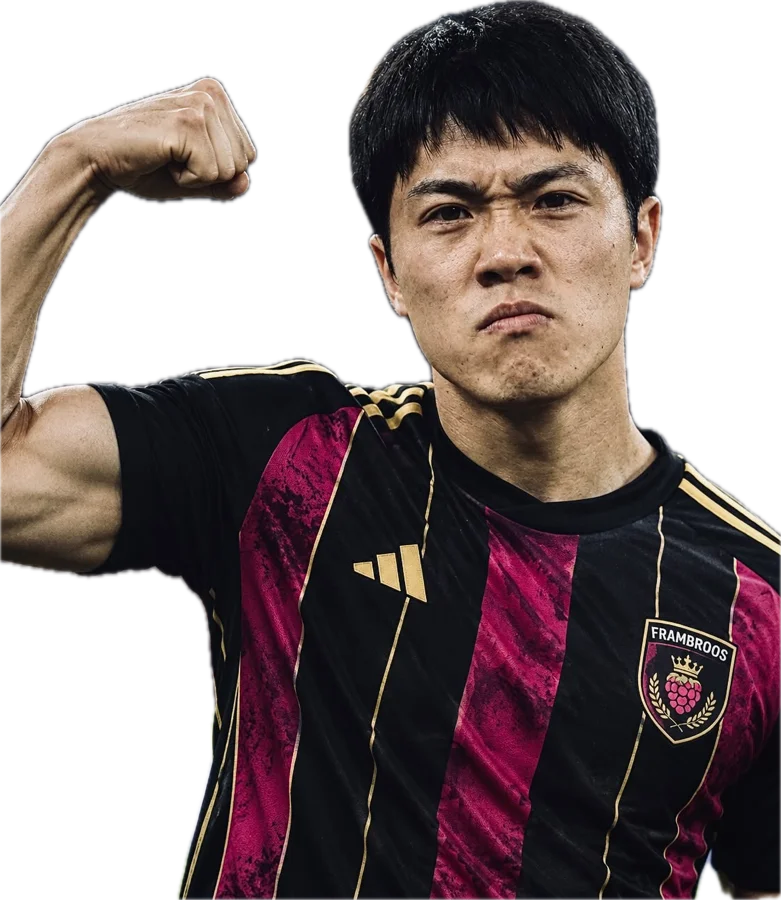
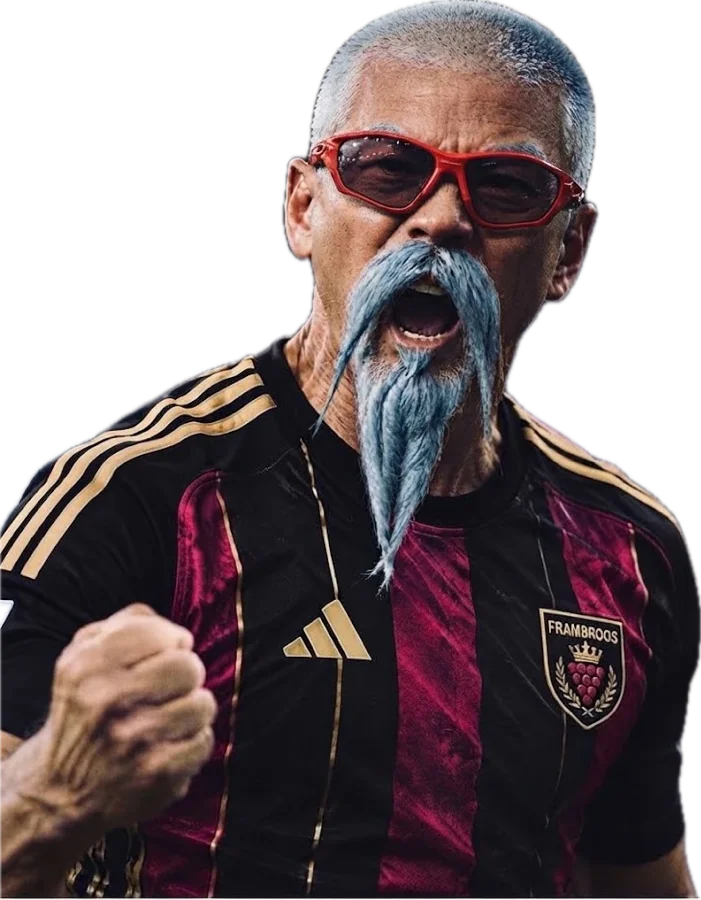
Foto's: Wheatley en Yaki omgewisseld, foto loopt onder de cijfers door zodat een arm past; Clubhouse met In het kort (drie regels) en één lijn; spelerspagina Algemeen: kaart, alinea, drie cijfers, wedstrijden, rest achter Meer cijfers

diff --git a/public/clubhouse.js b/public/clubhouse.js
@@ -68,15 +68,15 @@ function totals() {
   $('#totals').innerHTML = items.map(([l, v]) => `<div><dt>${l}</dt><dd>${v ?? '–'}</dd></div>`).join('');
 }
 
-// Vormgrafiek (coach-logica §9a): per wedstrijd een staafje (doelsaldo, kleur = uitslag), met daardoorheen het doelsaldo
-// en het verwachte doelsaldo tegen deze tegenstanders, beide gemiddeld over vijf. Een tik of muis toont de wedstrijd.
+// Vormgrafiek (coach-logica §9a): per wedstrijd een staafje (doelsaldo, kleur = uitslag), met daardoorheen één lijn:
+// het doelsaldo gemiddeld over vijf. Een tik of muis toont de wedstrijd.
 function formChart(container, ms) {
   if (!ms.length) { container.innerHTML = '<p class="empty">Nog geen wedstrijden.</p>'; return; }
   const width = Math.max(320, Math.min(1400, container.clientWidth || 800)), height = 230;
   const { svg, inner } = frame(container, width, height, { l: 34, t: 10, r: 8, b: 26 });
   const n = ms.length, own = DATA.snapshot?.skillRating;
-  const gd = rolling(ms.map(m => m.goalDiff), 5), ex = rolling(ms.map(m => m.expected ?? 0), 5);
-  const all = [...ms.map(m => m.goalDiff), ...gd, ...ex, 0];
+  const gd = rolling(ms.map(m => m.goalDiff), 5);
+  const all = [...ms.map(m => m.goalDiff), ...gd, 0];
   const yt = niceTicks(Math.min(...all), Math.max(...all), 4), y0 = Math.min(...all, yt[0]), y1 = Math.max(...all, yt.at(-1));
   const step = inner.w / n, sx = i => inner.x + (i + 0.5) * step, sy = v => inner.y + inner.h - (v - y0) / (y1 - y0) * inner.h;
   yAxis(svg, inner, sy, yt, v => v > 0 ? `+${v}` : v);
@@ -90,7 +90,6 @@ function formChart(container, ms) {
     const top = Math.min(sy(0), sy(m.goalDiff)), h = Math.max(2, Math.abs(sy(m.goalDiff) - sy(0)));
     return el('rect', { x: sx(i) - bw / 2, y: m.goalDiff === 0 ? sy(0) - 1 : top, width: bw, height: h, rx: Math.min(3, bw / 3), fill: fill[m.result], 'fill-opacity': 0.5 }, svg);
   });
-  el('path', { d: smoothPath(ex.map((v, i) => [sx(i), sy(v)])), fill: 'none', stroke: 'var(--ink-2)', 'stroke-width': 2, 'stroke-dasharray': '5 4', 'stroke-linecap': 'round' }, svg);
   el('path', { d: smoothPath(gd.map((v, i) => [sx(i), sy(v)])), fill: 'none', stroke: 'var(--brand)', 'stroke-width': 2.5, 'stroke-linecap': 'round', 'stroke-linejoin': 'round' }, svg);
   const hit = el('rect', { class: 'hit', x: inner.x, y: inner.y, width: inner.w, height: inner.h }, svg);
   let on = null, pointer = 'mouse';
@@ -101,7 +100,7 @@ function formChart(container, ms) {
     if (on !== null) bars[on].setAttribute('fill-opacity', 0.5);
     bars[i].setAttribute('fill-opacity', 1); on = i;
     const opp = m.opponent.skillRating ? `rating ${m.opponent.skillRating}${own ? ` (${signed(m.opponent.skillRating - own, 0)} tegenover ons)` : ''}` : 'rating onbekend';
-    showTip(`<b>${letter(m.result)} ${m.goals}–${m.goalsAgainst} tegen ${esc(m.opponent.name)}</b>${dayLabel(m.ts)} · ${opp}<br>Verwacht doelsaldo ${signed(m.expected, 1)}${m.winnerByDnf ? ' · opgave' : ''}<br>Gemiddeld over 5: doelsaldo ${signed(gd[i], 1)}, verwacht ${signed(ex[i], 1)}`, e);
+    showTip(`<b>${letter(m.result)} ${m.goals}–${m.goalsAgainst} tegen ${esc(m.opponent.name)}</b>${dayLabel(m.ts)} · ${opp}${m.winnerByDnf ? ' · opgave' : ''}<br>Doelsaldo gemiddeld over 5: ${signed(gd[i], 1)}`, e);
   });
   // Na een tik stuurt de browser soms meteen mouseleave; dan blijft de tooltip staan tot een tik ernaast (common.js).
   hit.addEventListener('mouseleave', () => { if (pointer !== 'mouse') return; if (on !== null) bars[on].setAttribute('fill-opacity', 0.5); on = null; hideTip(); });
@@ -112,17 +111,38 @@ function formChart(container, ms) {
 // Kerncijfers in de kop: de laatste tien tegenover de wedstrijden daarvoor.
 function seasonFigs(ms) {
   if (ms.length < 3) { $('#fig-season').innerHTML = ''; return; }
-  const last = ms.slice(-10), before = ms.slice(0, -10), own = DATA.snapshot?.skillRating, T = 'Laatste tien tegenover de gevolgde wedstrijden daarvoor';
+  const last = ms.slice(-10), before = ms.slice(0, -10), T = 'Laatste tien tegenover de gevolgde wedstrijden daarvoor';
   const a = summarize(last), b = before.length >= 5 ? summarize(before) : null;
-  const opp = list => { const r = list.map(m => m.opponent.skillRating).filter(Boolean); return r.length && own ? avg(r) - own : null; };
-  const oa = opp(last), ob = b ? opp(before) : null;
-  const neutral = d => d && { ...d, good: null }; // sterkere tegenstanders zijn niet beter of slechter, alleen anders
   $('#fig-season').innerHTML = figsHtml([
     { label: 'Punten per wedstrijd', value: a.ppg.toFixed(1), delta: b && deltaOf(a.ppg, b.ppg, { digits: 1, title: T }) },
     { label: 'Doelsaldo', color: 'var(--brand)', value: signed(a.gfAvg - a.gaAvg, 1), delta: b && deltaOf(a.gfAvg - a.gaAvg, b.gfAvg - b.gaAvg, { digits: 1, title: `${T} (per wedstrijd)` }) },
-    { label: 'Verwacht', color: 'var(--ink-2)', value: signed(avg(last.map(m => m.expected ?? 0)), 1) },
-    { label: 'Tegenstanders tov ons', value: oa === null ? '–' : signed(oa, 0), delta: ob !== null && oa !== null ? neutral(deltaOf(oa, ob, { digits: 0, min: 10, title: `${T}: gemiddelde rating van de tegenstanders tegenover de onze` })) : null },
   ]);
+}
+
+// In het kort (coach-logica §9a): drie regels in woorden, elk één vergelijking met een duidelijke basis.
+function kort(ms) {
+  const lines = [];
+  const won = list => `${list.filter(m => m.result === 'W').length} van de ${list.length}`;
+  const pctW = list => Math.round(100 * list.filter(m => m.result === 'W').length / list.length);
+  const tone = (good, txt) => `<span class="kort-tag ${good === true ? 'up' : good === false ? 'down' : ''}">${txt}</span>`;
+  // 1. Laatste avond tegenover normaal
+  const sess = sessionsOf(ms), last = sess.at(-1);
+  if (last && last.matches.length >= 2) {
+    const rest = ms.filter(m => m.session !== last.id), a = summarize(last.matches), b = rest.length >= 3 ? summarize(rest) : null;
+    const d = b ? a.ppg - b.ppg : null;
+    lines.push({ label: 'Laatste avond', main: `${won(last.matches)} gewonnen`, tag: d === null ? '' : tone(d >= 0.3 ? true : d <= -0.3 ? false : null, d >= 0.3 ? 'beter dan normaal' : d <= -0.3 ? 'slechter dan normaal' : 'zoals normaal') });
+  }
+  // 2. Deze week tegenover vorige week
+  const now = ms.at(-1)?.ts ?? 0, week = 7 * 86400;
+  const thisW = ms.filter(m => m.ts > now - week), prevW = ms.filter(m => m.ts <= now - week && m.ts > now - 2 * week);
+  if (thisW.length >= 3) lines.push({ label: 'Deze week', main: `${pctW(thisW)}% gewonnen`, tag: prevW.length >= 3 ? tone(pctW(thisW) - pctW(prevW) >= 10 ? true : pctW(prevW) - pctW(thisW) >= 10 ? false : null, `vorige week ${pctW(prevW)}%`) : '' });
+  // 3. Tegen sterkere clubs tegenover de rest
+  const own = DATA.snapshot?.skillRating;
+  if (own) {
+    const strong = ms.filter(m => m.opponent.skillRating >= own + 100), rest = ms.filter(m => m.opponent.skillRating && m.opponent.skillRating < own + 100);
+    if (strong.length >= 3 && rest.length >= 3) lines.push({ label: 'Tegen sterkere clubs', main: `${pctW(strong)}% gewonnen`, tag: tone(null, `tegen de rest ${pctW(rest)}%`) });
+  }
+  $('#kort').innerHTML = lines.map(l => `<div class="kort-row"><span class="kort-label">${l.label}</span><b>${l.main}</b>${l.tag}</div>`).join('');
 }
 
 // ---------- per speler: totalen uit de gevolgde wedstrijden ----------
@@ -187,6 +207,7 @@ function openRank(R, totals) {
 function render() {
   const ms = DATA.matches;
   homeHero(ms);
+  kort(ms);
   totals();
   seasonFigs(ms);
   formChart($('#chart-form'), ms);

diff --git a/public/spelers.html b/public/spelers.html
@@ -45,28 +45,7 @@
   <section class="card">
     <h2 class="card-title">Samenvatting</h2>
     <p class="summary" id="p-summary"></p>
-  </section>
-  <div class="pcards4" id="p-cards"></div>
-
-  <section class="card">
-    <div class="card-head">
-      <div>
-        <h2>Aan de bal in context</h2>
-        <p class="hint">Balverlies naast wat er tegenover staat, vergeleken met <span id="ctx-group">dezelfde build</span>. Hoe lastig ontvangen passes zijn, meet EA niet; momenten zonder aanspeelpunt zijn de benadering.</p>
-      </div>
-      <div class="card-figs" id="ctx-figs"></div>
-    </div>
-    <div class="ctx-verdict" id="ctx-verdict"></div>
-    <div class="tiles ctx-tiles" id="ctx-tiles"></div>
-  </section>
-
-  <section class="card">
-    <h2>Sterk en zwak</h2>
-    <p class="hint">Waar deze speler bovenaan of onderaan staat in het team.</p>
-    <div class="split">
-      <div><h3 class="good-text">Sterk in</h3><ul class="insight-list" id="list-strengths"></ul></div>
-      <div><h3 class="bad-text">Kan beter</h3><ul class="insight-list" id="list-weaknesses"></ul></div>
-    </div>
+    <div class="sess-figs p-three" id="p-three"></div>
   </section>
 
   <section class="card">
@@ -75,6 +54,31 @@
     <div id="tbl-player-matches"></div>
   </section>
 
+  <details class="card more-cijfers">
+    <summary>Meer cijfers</summary>
+    <div class="pcards4" id="p-cards"></div>
+
+    <section class="card">
+      <div class="card-head">
+        <div>
+          <h2>Aan de bal in context</h2>
+          <p class="hint">Balverlies naast wat er tegenover staat, vergeleken met <span id="ctx-group">dezelfde build</span>. Hoe lastig ontvangen passes zijn, meet EA niet; momenten zonder aanspeelpunt zijn de benadering.</p>
+        </div>
+        <div class="card-figs" id="ctx-figs"></div>
+      </div>
+      <div class="ctx-verdict" id="ctx-verdict"></div>
+      <div class="tiles ctx-tiles" id="ctx-tiles"></div>
+    </section>
+
+    <section class="card">
+      <h2>Sterk en zwak</h2>
+      <p class="hint">Waar deze speler bovenaan of onderaan staat in het team.</p>
+      <div class="split">
+        <div><h3 class="good-text">Sterk in</h3><ul class="insight-list" id="list-strengths"></ul></div>
+        <div><h3 class="bad-text">Kan beter</h3><ul class="insight-list" id="list-weaknesses"></ul></div>
+      </div>
+    </section>
+  </details>
     </div>
 
   <div id="tab-sessions" role="tabpanel" aria-labelledby="tab-btn-sessions" class="tabpanel" hidden>

diff --git a/public/style.css b/public/style.css
@@ -511,6 +511,22 @@ a.pchip:hover { border-color: var(--brand); }
 .season .card-head { margin-bottom: 12px; }
 .season-chart { margin-top: 16px; padding-top: 12px; border-top: 1px solid var(--grid); }
 .season-chart .hit { cursor: pointer; }
+.kort { display: grid; gap: 6px; margin: 4px 0 14px; }
+.kort-row { display: flex; align-items: baseline; gap: 10px; flex-wrap: wrap; font-size: 14.5px; }
+.kort-label { color: var(--ink-2); min-width: 150px; }
+.kort-row b { font-weight: 620; }
+.kort-tag { font-size: 12.5px; color: var(--ink-2); padding: 2px 8px; border-radius: 999px; background: color-mix(in srgb, var(--ink) 8%, transparent); }
+.kort-tag.up { color: var(--good-text); background: color-mix(in srgb, var(--pos) 16%, transparent); }
+.kort-tag.down { color: var(--neg-text); background: color-mix(in srgb, var(--neg) 16%, transparent); }
+@media (max-width: 600px) { .kort-row { gap: 4px 8px; } .kort-label { min-width: 100%; font-size: 12px; } }
+.p-three { grid-template-columns: repeat(3, minmax(0, 1fr)); margin-top: 0; padding-top: 0; border-top: 0; }
+.more-cijfers > summary { cursor: pointer; list-style: none; display: flex; align-items: center; gap: 8px; font-weight: 560; color: var(--brand-text); min-height: 40px; }
+.more-cijfers > summary::-webkit-details-marker { display: none; }
+.more-cijfers > summary::before { content: "+"; font-size: 18px; width: 22px; text-align: center; }
+.more-cijfers[open] > summary::before { content: "–"; }
+.more-cijfers[open] > summary { margin-bottom: 12px; }
+.more-cijfers .card { margin-bottom: 12px; }
+.more-cijfers .card:last-child { margin-bottom: 0; }
 .totals-band { margin: 0; display: grid; grid-template-columns: repeat(8, minmax(0, 1fr)); }
 .totals-band div { padding: 4px 14px; border-left: 1px solid var(--grid); min-width: 0; }
 .totals-band div:first-child { border-left: 0; padding-left: 0; }

diff --git a/public/spelers.js b/public/spelers.js
@@ -256,6 +256,13 @@ function renderPlayer() {
   fill('#list-strengths', sw.strengths.slice(0, 3), 'Nog geen maat waarop deze speler bovenaan staat.');
   fill('#list-weaknesses', sw.weaknesses.slice(0, 3), 'Nog geen maat waarop deze speler duidelijk onderaan staat.');
   $('#p-summary').innerHTML = playerSummary(selected, rows, career, sw);
+  // Drie cijfers over de gekozen periode (coach-logica §9a); de rest staat achter Meer cijfers.
+  const three = (label, value, sub) => `<div class="sfig"><span class="sfig-label">${label}</span><span class="sfig-value">${value}</span><span class="sfig-sub">${sub}</span></div>`;
+  $('#p-three').innerHTML = rows.length ? [
+    three('Goals per wedstrijd', f2(g / n), `${g} in ${rows.length} wedstrijden`),
+    three('Assists per wedstrijd', f2(as / n), `${as} in ${rows.length} wedstrijden`),
+    three('Gewonnen', fmtPct(s.winPct), `${s.W}-${s.D}-${s.L} met deze speler`),
+  ].join('') : '';
   renderContext(selected, ms);
   window.PlayerCard.render(selected);
   document.title = `${selected} · Frambroos Coach`;

diff --git a/public/playercard.js b/public/playercard.js
@@ -57,7 +57,7 @@ function futFrame(photo, uid) {
     <path d="${FUT_SHAPE}" fill="url(#${id('bg')})" stroke="url(#${id('gold')})" stroke-width="2.2" ${inset(0.952, 0.966)}/>
     <g clip-path="url(#${id('clip')})">
       <rect width="300" height="430" fill="url(#${id('sheen')})"/><rect width="300" height="430" fill="url(#${id('dots')})"/>
-      ${photo ? `<g mask="url(#${id('photo-mask')})"><rect x="0" y="0" width="300" height="250" style="fill:var(--t-photo)"/><image href="${photo}" x="74" y="52" width="200" height="198" preserveAspectRatio="xMidYMin slice"/></g>` : ''}
+      ${photo ? `<g mask="url(#${id('photo-mask')})"><rect x="0" y="0" width="300" height="250" style="fill:var(--t-photo)"/><image href="${photo}" x="34" y="52" width="240" height="198" preserveAspectRatio="xMaxYMin slice"/></g>` : ''}
     </g>
   </svg>`;
 }

diff --git a/public/index.html b/public/index.html
@@ -17,9 +17,10 @@
 
     <section class="card season">
       <div class="card-head">
-        <div><h2>Seizoen</h2><p class="hint">Bovenin de totalen volgens EA. Daaronder elke gevolgde wedstrijd als staafje (doelsaldo), met het doelsaldo en het verwachte doelsaldo tegen deze tegenstanders, gemiddeld over vijf.</p></div>
+        <div><h2>Seizoen</h2><p class="hint">Drie regels in het kort, de totalen volgens EA, en elke gevolgde wedstrijd als staafje (doelsaldo) met het gemiddelde over vijf.</p></div>
         <div class="card-figs" id="fig-season"></div>
       </div>
+      <div class="kort" id="kort"></div>
       <dl class="totals-band" id="totals"></dl>
       <div id="chart-form" class="season-chart"></div>
     </section>

diff --git a/docs/coach-logica.md b/docs/coach-logica.md
@@ -306,17 +306,25 @@ op de clubpagina's van de Premier League). Van boven naar beneden:
    groot, het stadion erboven, de clubnaam, en daaronder skill rating en huidige divisie. Dan de **laatste 10
    wedstrijden** als rondjes (W/G/V, oudste links, nieuwste rechts en omlijnd; een tik opent de wedstrijd), zonder
    label en zonder reeks: de rondjes zeggen het zelf. Niet alles hoeft benoemd te worden.
-2. **Seizoen**: één kaart met bovenin de totalen volgens EA over alle wedstrijden (wedstrijden, gewonnen, gelijk,
-   verloren, winstpercentage, doelpunten voor en tegen, clean sheets; geen badges, dit zijn feiten) en daaronder de
-   **vormgrafiek** over de gevolgde wedstrijden. Per wedstrijd een staafje: hoogte = doelsaldo, kleur = uitslag. Daar
-   doorheen twee lijnen, beide gemiddeld over vijf wedstrijden: het **doelsaldo** en het **verwachte doelsaldo** op basis van de
-   tegenstander (skill rating tegenover de onze en het aantal mensen per kant, het verwachtingsmodel uit §3). Ligt de eerste lijn
-   boven de tweede, dan doen we het beter dan de tegenstanders deden verwachten. Rechts in de kop vier cijfers over de
-   laatste tien, met een badge tegenover de wedstrijden daarvoor: punten per wedstrijd, doelsaldo per wedstrijd, het
-   verwachte doelsaldo (de kleurtjes zijn ook de legenda van de twee lijnen) en de gemiddelde rating van de
-   tegenstanders tegenover de onze, *Tegenstanders tov ons* (badge grijs: sterkere tegenstanders zijn niet beter of slechter). EA geeft alleen
-   de huidige rating van een tegenstander, niet die op de dag van de wedstrijd. De tooltip per wedstrijd noemt uitslag, tegenstander, diens rating
-   en wat er verwacht werd.
+2. **Seizoen**: één kaart, bewust simpel (sinds 27 oktober 2026). Bovenin **In het kort**: drie regels die iedereen
+   snapt, elk een vergelijking met één duidelijke basis, in woorden met hooguit twee getallen:
+   - *Laatste avond*: "5 van de 7 gewonnen", met **beter / slechter / zoals normaal** (punten per wedstrijd tegenover
+     het eigen gemiddelde over alle andere gevolgde wedstrijden; verschil ≥ 0,3 telt).
+   - *Deze week tegenover vorige week*: winstpercentage van de laatste 7 dagen naast dat van de 7 dagen ervoor
+     (alleen als beide minstens 3 wedstrijden hebben; anders de laatste 7 dagen alleen).
+   - *Tegen sterkere clubs*: winstpercentage tegen clubs met een skill rating ≥ 100 boven de onze naast dat tegen de
+     rest (alleen als beide minstens 3 wedstrijden hebben). Dit is het ene verband dat in de data overeind blijft en
+     dat je kunt gebruiken: tegen de rest niet achteroverleunen.
+   Daaronder de totalen volgens EA over alle wedstrijden (wedstrijden, gewonnen, gelijk, verloren, winstpercentage,
+   doelpunten voor en tegen, clean sheets; geen badges, dit zijn feiten) en de **vormgrafiek** over de gevolgde
+   wedstrijden: per wedstrijd een staafje (hoogte = doelsaldo, kleur = uitslag) met daardoorheen **één lijn**, het
+   doelsaldo gemiddeld over vijf. Rechts in de kop twee cijfers over de laatste tien met een badge tegenover de
+   wedstrijden daarvoor: punten per wedstrijd en doelsaldo per wedstrijd. Niet meer: de lijn en het cijfer *verwacht
+   doelsaldo* en *tegenstanders tov ons* (jargon; het verwachtingsmodel uit §3 blijft wel in de badges op de
+   wedstrijdkaarten). De tooltip per wedstrijd noemt uitslag, tegenstander en diens rating.
+   **Niet mogelijk**: "nog X punten tot promotie". EA's `lastMatch0..9` is een rollend venster van de laatste vijf
+   uitslagen (1 = winst, 2 = verlies, 3 = gelijk, −1 = leeg), geen seizoensstand; de divisieregels (`settings`) slaan we
+   wel op voor als dat ooit kan.
 3. **Nieuws**: één kaart met het nieuwste artikel en een link naar de nieuwspagina (`nieuws.html`) met alle artikelen.
 4. **Laatste uitslagen**: de laatste vier wedstrijden als `matchCard`, met een link naar alle wedstrijden.
 5. **Topspelers**: vier ranglijstkaartjes (Frambroos-index, rating, goals, assists); de andere vijf achter een knop.
@@ -356,6 +364,13 @@ Geen reeksen: die staan al in de rondjes bovenaan.
   eronder. Voor percentages de minimale aantallen uit §4.
 - **Leden**: elk lid als spelerskaart (§9c), **gesorteerd op vorm**: eerst topvorm, dan in vorm, dan de rest; binnen
   een tier op de rating van de laatste vijf, dan op aantal wedstrijden.
+
+**Spelerspagina, tab Algemeen** (sinds 27 oktober 2026, *less is more*): in één blik te lezen. Van boven naar
+beneden: de spelerskaart; de samenvatting (één alinea: rol en vorm); **drie cijfers** over de gekozen periode (goals
+per wedstrijd, assists per wedstrijd, winstpercentage met deze speler erbij); de laatste acht wedstrijden. Alles wat
+meer wil weten staat achter één knop **Meer cijfers** (ingeklapt): Highlights en precisie, Frambroos-index met
+onderdelen, resultaat met deze speler, *Aan de bal in context* (§4a) en *Sterk en zwak*. Uitbreiden gebeurt daar, of
+in de tabbladen Vorm en Advies; het eerste scherm blijft vier dingen.
 
 **Sessies** begint met een kaart per avond, nieuwste eerst (geïnspireerd op de sessiekaart van FC Clubs): datum en
 duur, de uitslag groot als W-G-V, en drie cijfers: doelpunten, punten per wedstrijd (groen bij ≥ 0,3 boven het eigen

diff --git a/CLAUDE.md b/CLAUDE.md
@@ -113,10 +113,13 @@ alleen in Cloudflare.
   stippen (alleen bij hover). Klassenamen in componenten specifiek houden (bijv. `.pitch-line`, niet `.line`).
 - Menu: Clubhouse (startpagina, coach-logica §9a), Sessies, Wedstrijden, Spelers. De spelersnamen staan als knoppen
   bovenaan de spelerspagina (`#chips`), niet in het menu. Het Clubhouse heeft geen KPI-tegels maar één kaart *Seizoen*:
-  totalen zonder badges (`.totals-band`) en daaronder de vormgrafiek (staafjes per wedstrijd plus doelsaldo en verwacht
-  doelsaldo tegen deze tegenstanders), met de kerncijfers via `figsHtml` in de kop. Geen aparte analysepagina. De app is bewust eenvoudig: liever één duidelijke kaart dan drie tabellen.
-- Spelerspagina: drie tabbladen (Algemeen, Vorm, Advies). Samengevoegde kaarten tonen hooguit drie punten per kant;
-  spelerstabellen zijn compact, met *Alle cijfers* achter een knop.
+  eerst *In het kort* (`.kort`: drie regels in woorden, coach-logica §9a), dan de totalen zonder badges
+  (`.totals-band`) en de vormgrafiek (staafjes per wedstrijd plus één lijn: doelsaldo over vijf), met twee kerncijfers
+  via `figsHtml` in de kop. Geen "verwacht" of "tov ons" op de startpagina. Geen aparte analysepagina. De app is bewust eenvoudig: liever één duidelijke kaart dan drie tabellen.
+- Spelerspagina: drie tabbladen (Algemeen, Vorm, Advies). Algemeen is vier dingen: kaart, samenvatting, drie cijfers
+  (`#p-three`), laatste acht wedstrijden; de rest staat ingeklapt achter *Meer cijfers* (`details.more-cijfers`,
+  coach-logica §9a). Samengevoegde kaarten tonen hooguit drie punten per kant; spelerstabellen zijn compact, met
+  *Alle cijfers* achter een knop.
 - Spelerspagina begint met de spelerskaart (`public/playercard.js`): FC-vorm met een tier die met de vorm meebeweegt
   (goud, zwart-goud bij *in vorm*, topvorm; coach-logica §9c; kleuren los van het thema), met foto of
   silhouet, overall, vlag, ingestelde positie, laatst gespeelde build en zes cijfers (seizoen, of face stats uit de ingevulde
